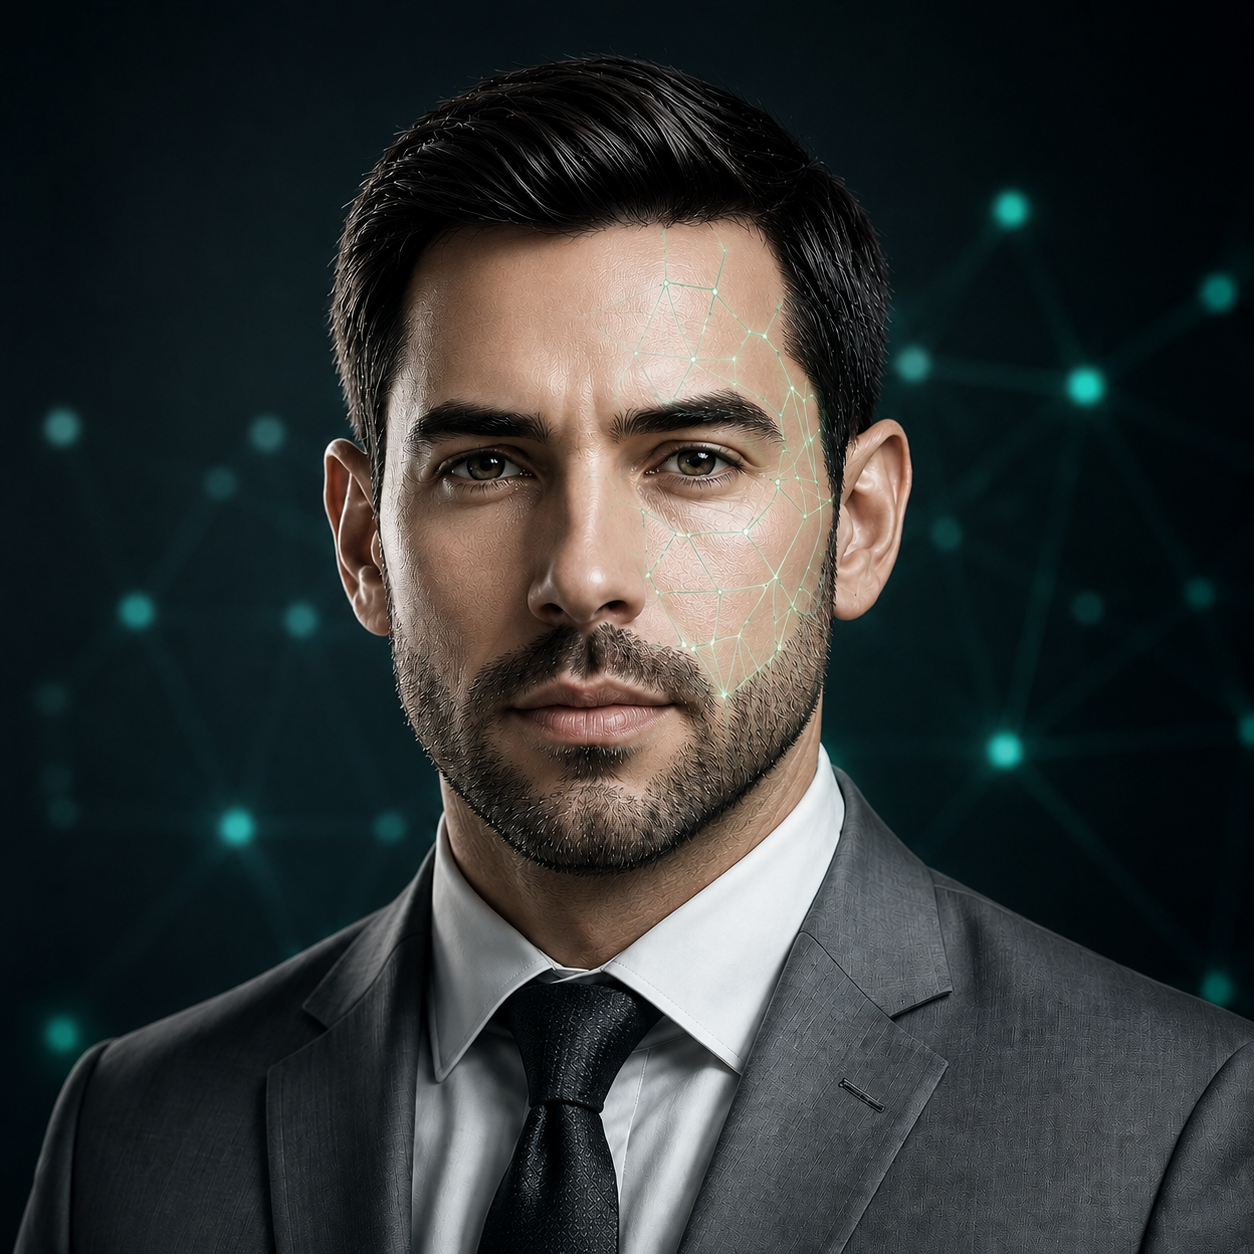
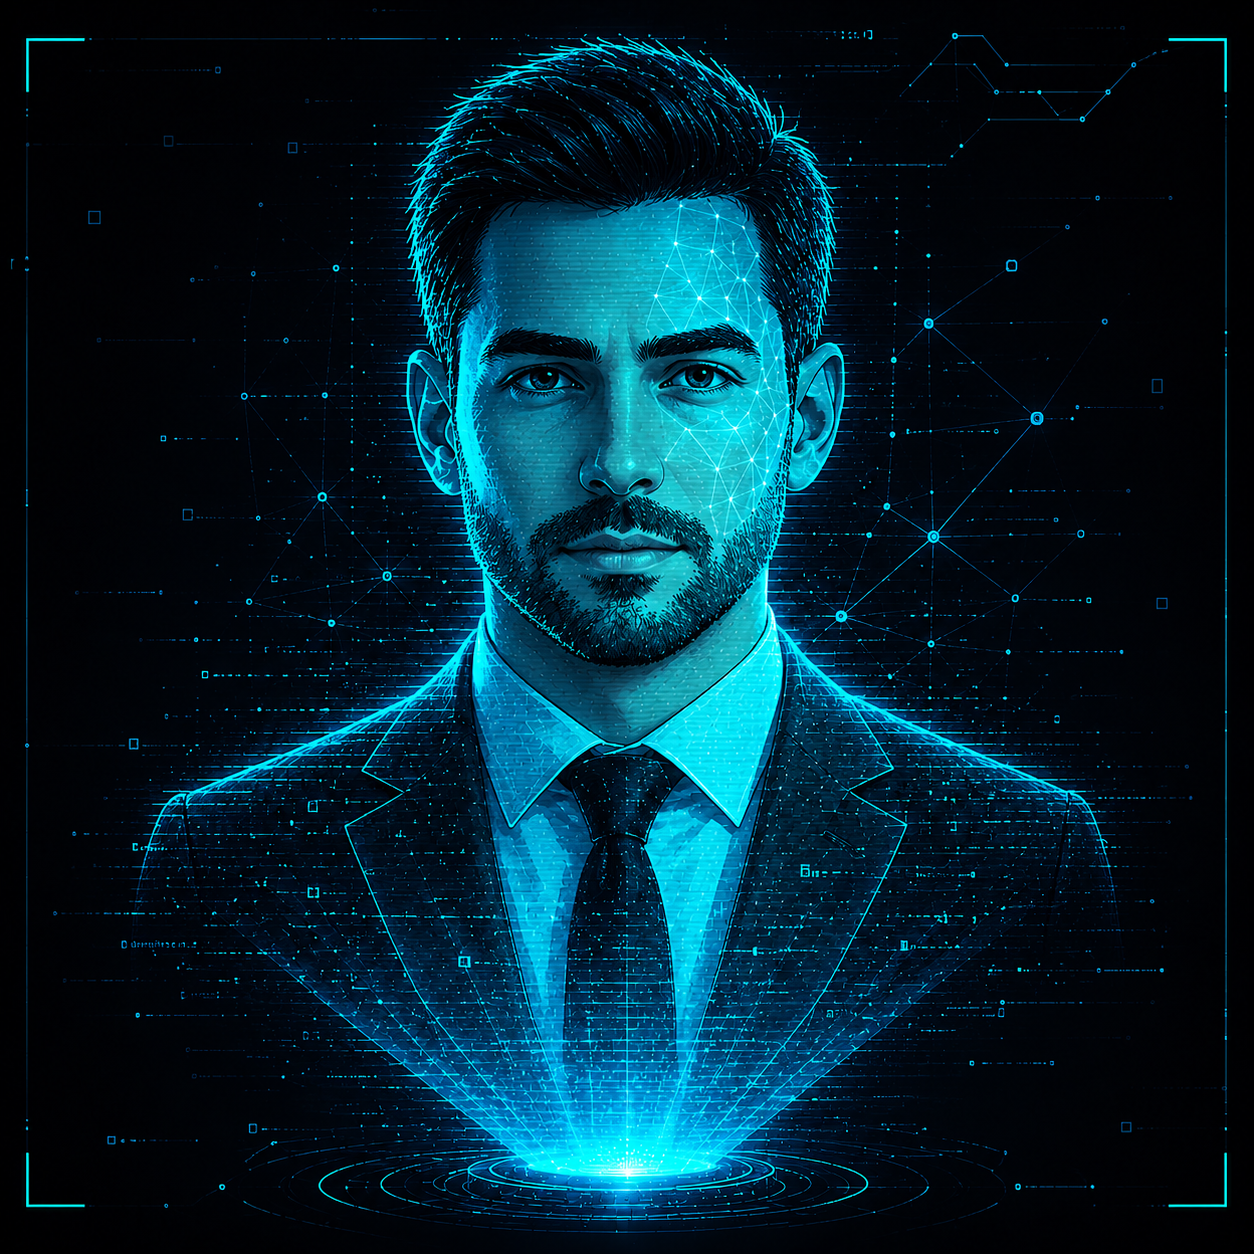
Change profil photo + fix text competences

diff --git a/src/components/CompetencesData.jsx b/src/components/CompetencesData.jsx
@@ -90,10 +90,10 @@ export const TOOL_DESCRIPTIONS = {
   CyberChef: "Décodage & transformation données",
   //IA
   Flask: "API Python",
-  PyTorch: "Modèles deep learning",
+  PyTorch: "Machine Learning",
   LangChain: "Pipelines RAG & Orchestration LLM",
   Pandas: "Manipulation Dataframes & Datasets",
-  NumPy: "Calcul data",
+  NumPy: "Calcul Numérique & Opérations Vectorielles",
   // FULL STACK
   Python: "Scripts & API",
   Java: "Programmation orientée objet",
@@ -165,7 +165,7 @@ export const DOMAINS = [
         tag: "LLM - RAG - NLP - Pipeline - Data analysis",
         tools: ["Flask", "PyTorch", "LangChain", "Pandas", "NumPy"],
         details:
-          "Développement d’API backend pour applications IA avec Flask : intégration de LLM, pipelines RAG, NLP, orchestration de modèles génératifs. Analayse et traitement de données avec Pandas et NumPy.",
+          "Développement d’API backend pour applications IA avec Flask : intégration de LLM, pipelines RAG & NLP, orchestration de modèles génératifs. Analayse et traitement de données avec Pandas et NumPy.",
       },
     ],
   },